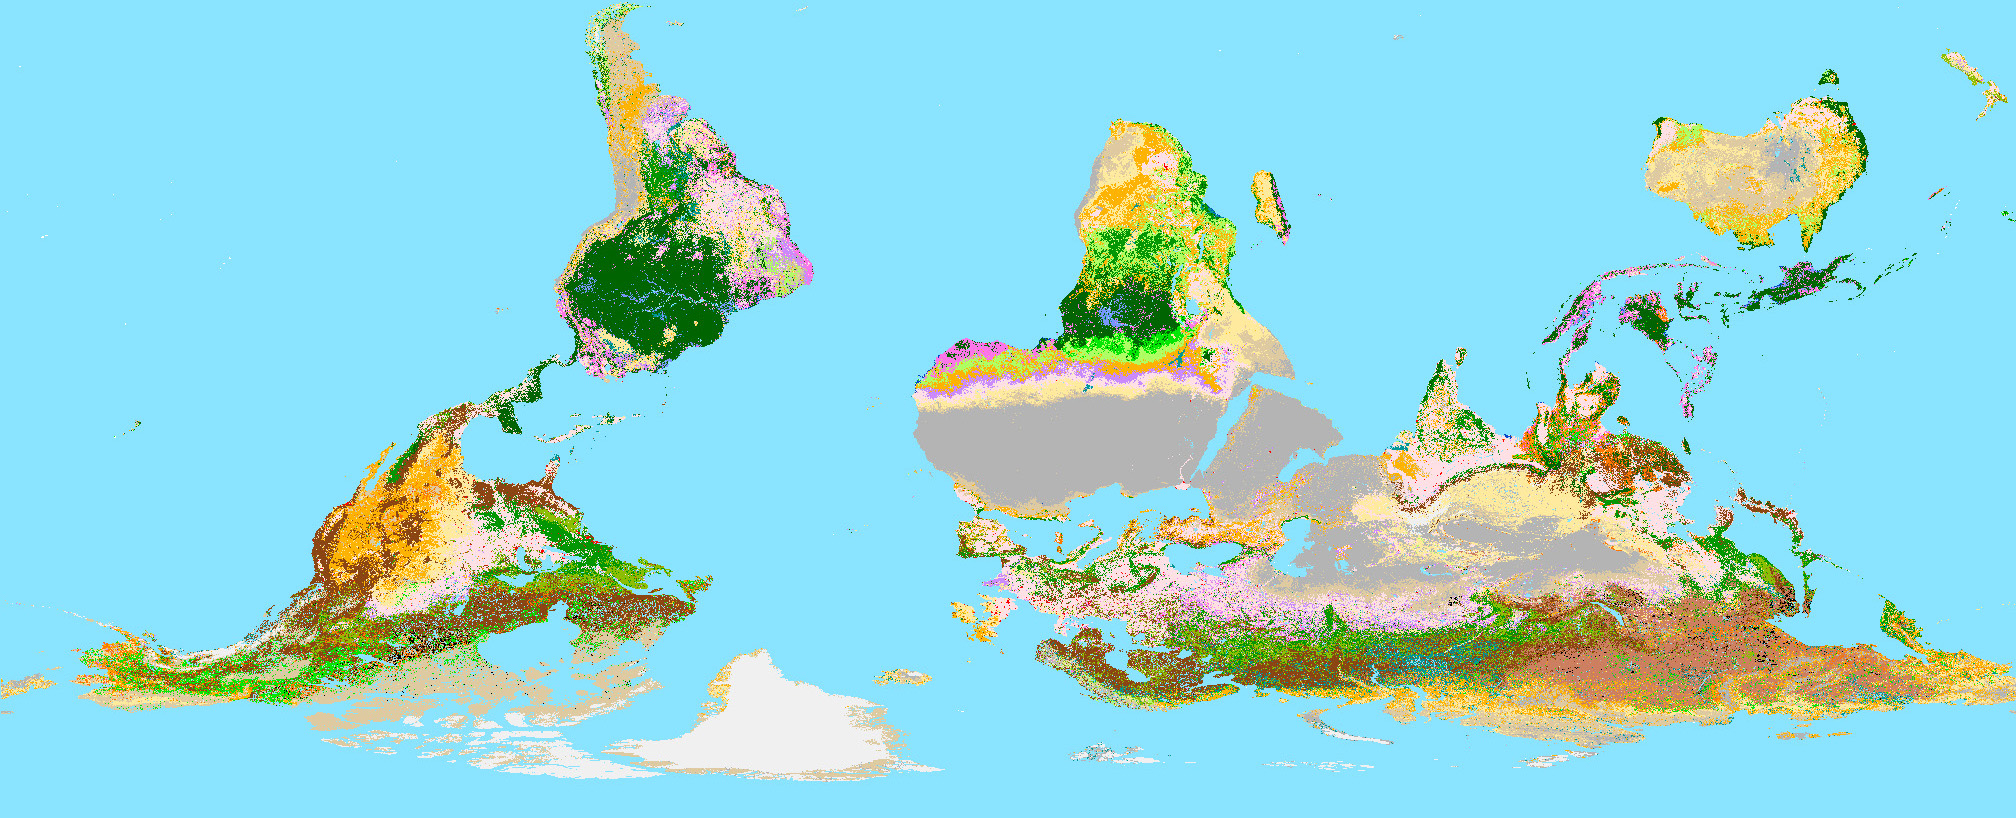
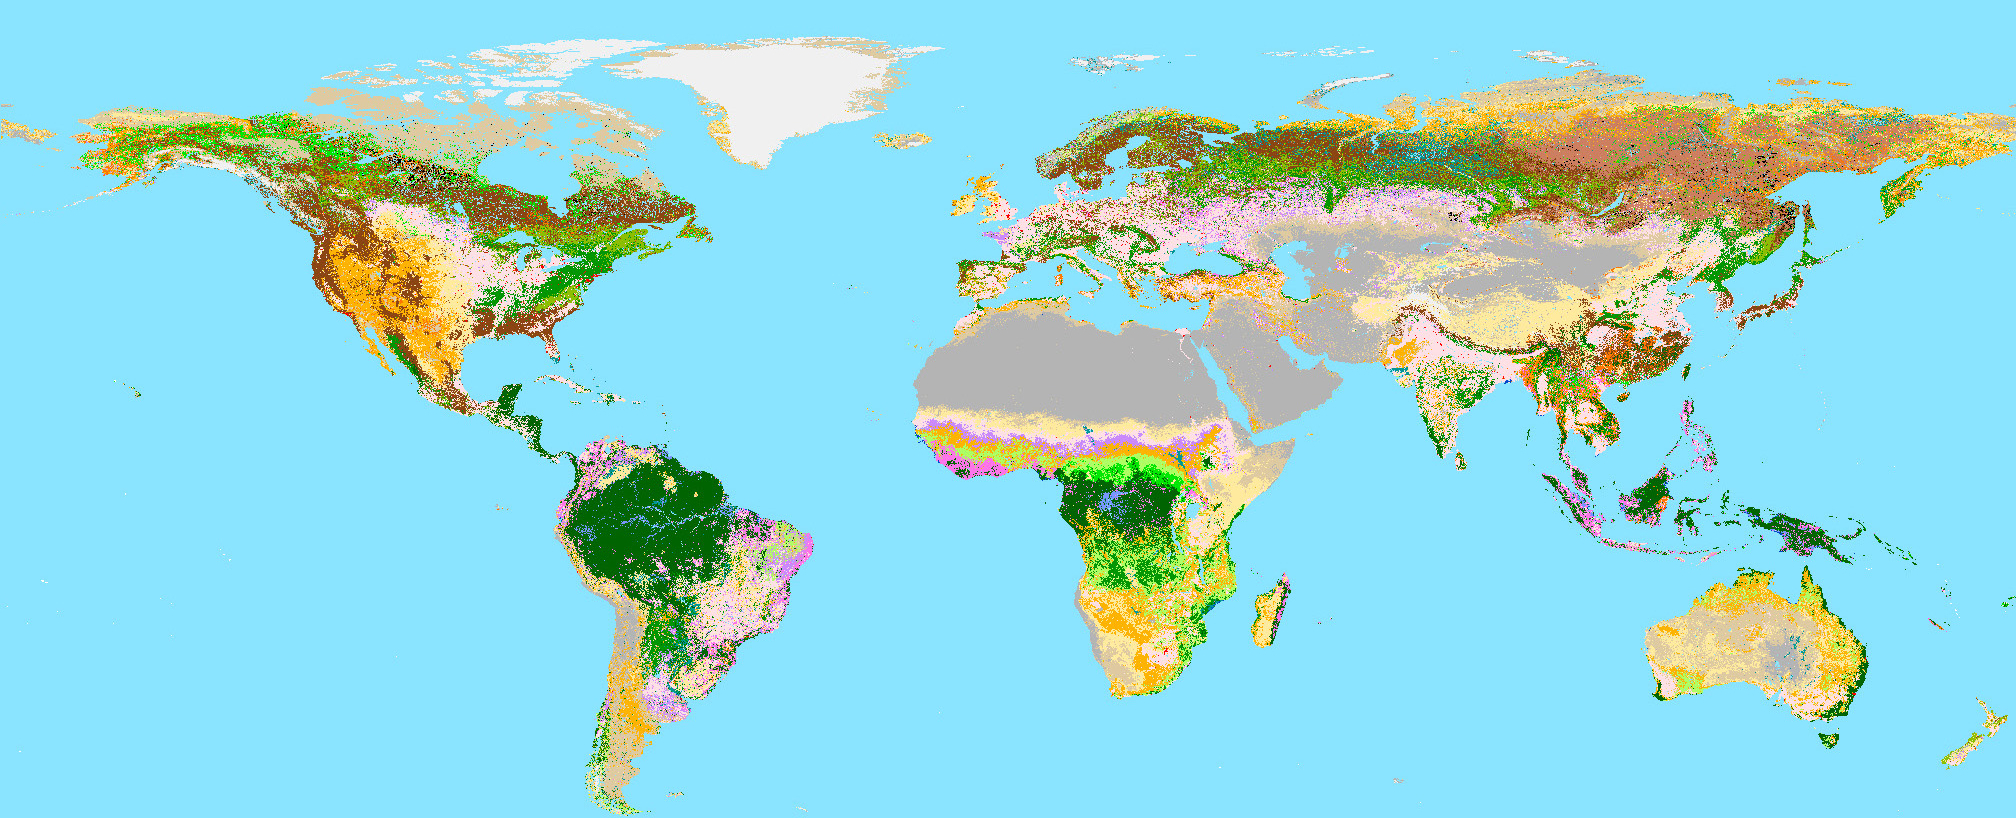
Modifique que se vea bien la textura al cargarse y no invertida. Modifique la esfra para cambiar el color dl cursor del mouse en la esfera.

diff --git a/nuevo-source-experimental/source/client/player/ui/sphere.cpp b/nuevo-source-experimental/source/client/player/ui/sphere.cpp
@@ -179,7 +179,6 @@ void Sphere::draw() {
 void Sphere::drawSphere() {
     // Habilito textura
     enableTexture();
-    // Rotate in te  axis
     // Dibujo la esfera
     gluSphere(sphereQuad, 1.0, 64, 64);
     // Deshabilito textura
@@ -194,7 +193,7 @@ void Sphere::drawCrossHair() {
     double lonRad = crossHairState.getLongitude() * PI / 180.0;
     double da = PI / 32.0;
     
-    glColor3f(1.0, 0.0, 0.0);
+    glColor3f(0.0, 0.0, 0.5);
     
     glBegin(GL_LINE_STRIP);
     for (int i = 0; i <= 64; i++)

diff --git a/nuevo-source-experimental/source/client/player/ui/texture.cpp b/nuevo-source-experimental/source/client/player/ui/texture.cpp
@@ -62,6 +62,12 @@ void Texture::load(const std::string& fileName) {
                          GL_UNSIGNED_BYTE, image->pixels);
         // Libera la surface.
         SDL_FreeSurface(image);
+        // Cambia a matriz de textura y rota la textura.
+        glMatrixMode(GL_TEXTURE);
+        glRotatef(180.0f,0.0f,0.0f,1.0f);
+        glScalef(-1.0f,1.0f,1.0f);
+        // Vuelve a la matriz de model view
+        glMatrixMode(GL_MODELVIEW);
         // Mark the image as loaded
         loaded = true;
     }
